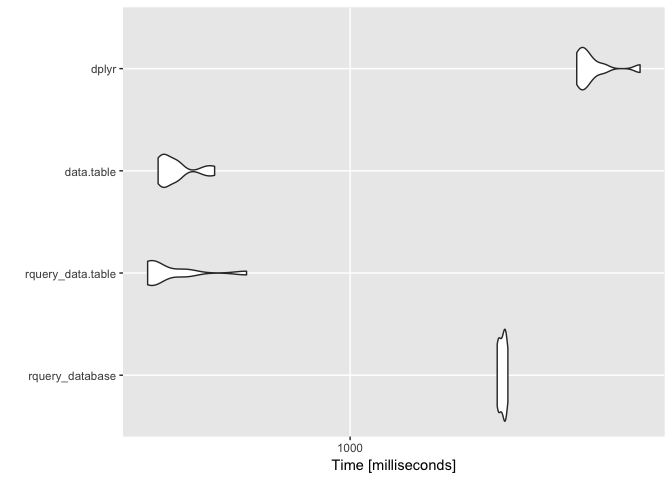
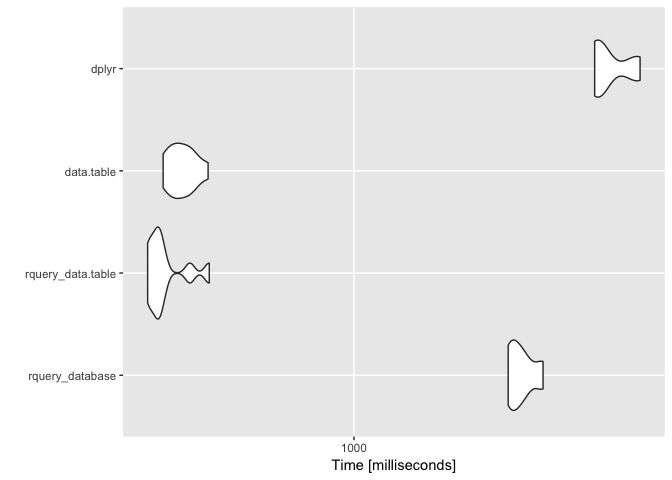
re-run

diff --git a/extras/data_table.md b/extras/data_table.md
@@ -286,15 +286,15 @@ print(timings)
 
     ## Unit: milliseconds
     ##               expr       min        lq      mean    median        uq
-    ##    rquery_database 2557.7157 2583.9592 2644.7636 2654.7578 2690.8698
-    ##  rquery_data.table  274.4236  278.8500  318.7364  284.5770  348.1733
-    ##         data.table  293.4394  303.7185  331.2156  314.5797  334.8992
-    ##              dplyr 4250.0448 4317.4416 4702.7179 4514.3201 4762.3052
+    ##    rquery_database 2639.4338 2670.7015 2874.9780 2811.0716 2983.3504
+    ##  rquery_data.table  273.0115  279.4621  305.6823  291.4216  302.9606
+    ##         data.table  300.9833  318.7320  340.4424  336.1054  357.8602
+    ##              dplyr 4547.3340 4600.1153 5032.4030 4700.9753 5810.9175
     ##        max neval
-    ##  2738.1579    10
-    ##   516.1708    10
-    ##   420.9102    10
-    ##  6368.6649    10
+    ##  3286.7449    10
+    ##   402.3675    10
+    ##   399.4076    10
+    ##  6051.7388    10
 
 ``` r
 # summarize by hand using rquery database connector
@@ -309,10 +309,10 @@ timings %.>%
 
 | expr               |        mean|
 |:-------------------|-----------:|
-| dplyr              |  4702717876|
-| rquery\_database   |  2644763550|
-| rquery\_data.table |   318736368|
-| data.table         |   331215570|
+| dplyr              |  5032402983|
+| rquery\_database   |  2874978012|
+| rquery\_data.table |   305682287|
+| data.table         |   340442440|
 
 ``` r
 autoplot(timings)
@@ -321,7 +321,9 @@ autoplot(timings)
 ![](data_table_files/figure-markdown_github/presenttimings-1.png)
 
 ``` r
-WVPlots::ScatterBoxPlotH(as.data.frame(timings), "time", "expr", "runtime by expression in nanoseconds")
+WVPlots::ScatterBoxPlotH(as.data.frame(timings), 
+                         "time", "expr", 
+                         "runtime by implementation in nanoseconds")
 ```
 
 ![](data_table_files/figure-markdown_github/presenttimings-2.png)
